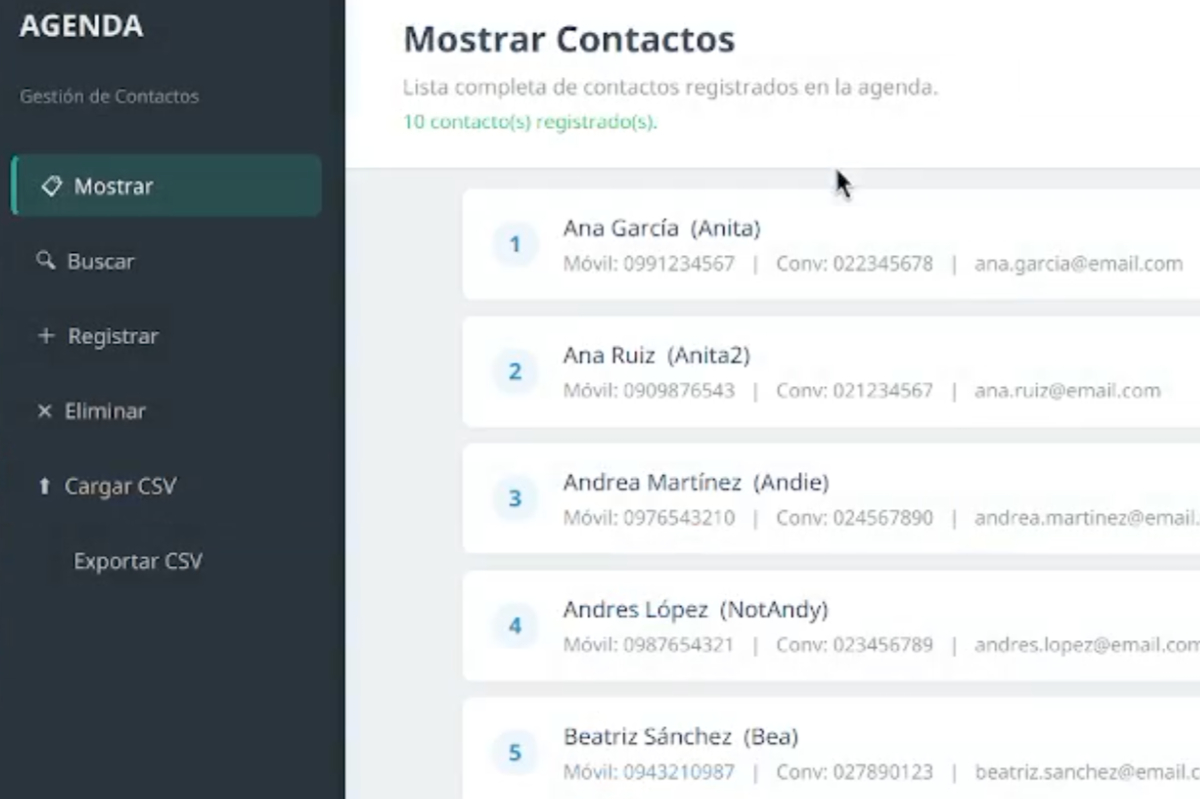
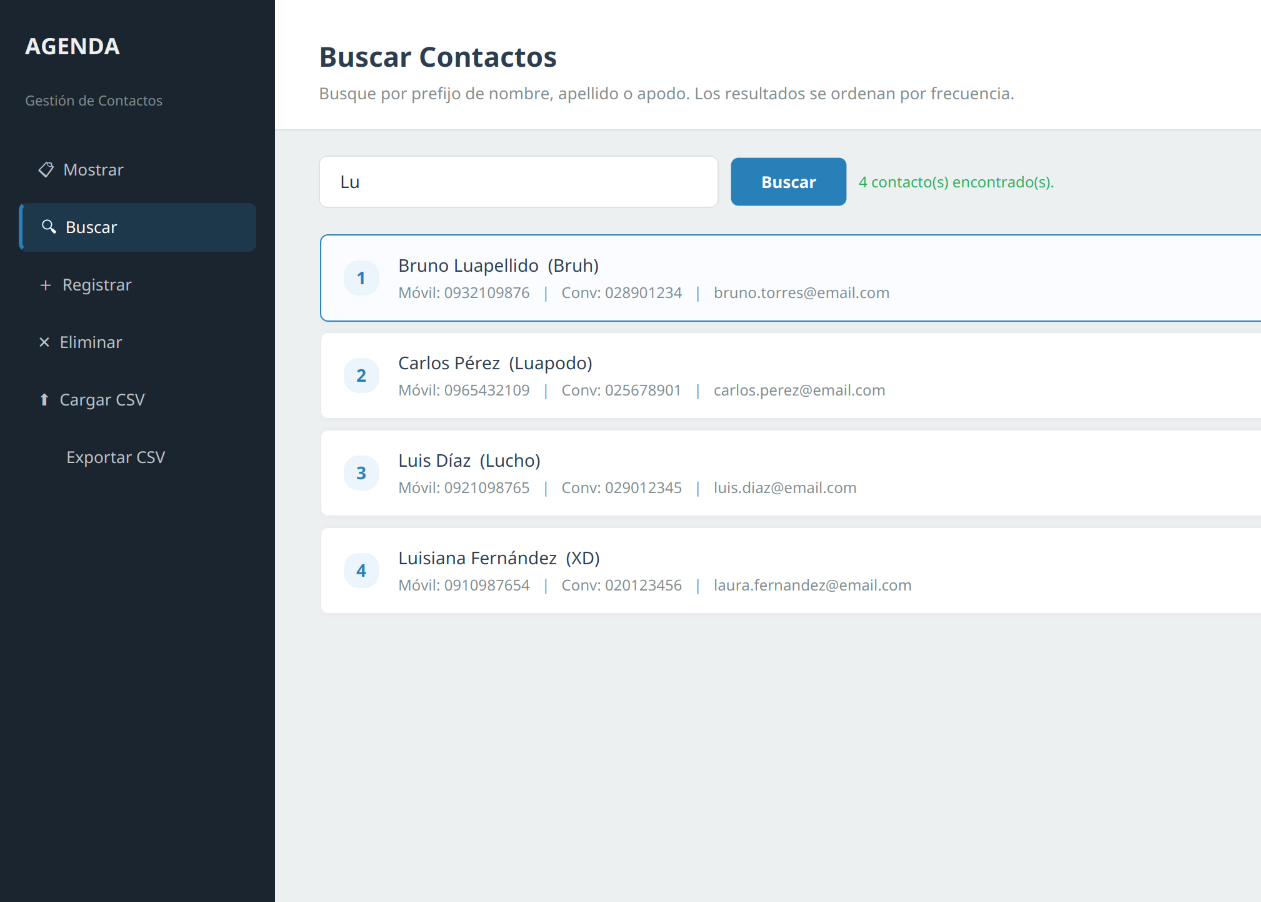
Actualizar proyectos de Lenguajes y Sistemas Distribuidos

diff --git a/index.html b/index.html
@@ -151,7 +151,8 @@
             <li data-filter="*" class="filter-active">Todos</li>
             <li data-filter=".filter-bd">Base de Datos</li>
             <li data-filter=".filter-edd">Estructura de Datos</li>
-            <li data-filter=".filter-next">Próximamente</li>
+            <li data-filter=".filter-ldp">Lenguajes de Programación</li>
+            <li data-filter=".filter-sd">Sistemas Distribuidos</li>
           </ul>
 
           <div class="row gy-4 isotope-container" data-aos="fade-up" data-aos-delay="200">
@@ -159,7 +160,7 @@
             <div class="col-lg-6 col-xl-4 isotope-item filter-bd">
               <article class="portfolio-card">
                 <div class="card-media">
-                  <img src="assets/img/projects/bd1-atrium.png" alt="Placeholder visual de Proyecto BD1 Atrium">
+                  <img src="assets/img/projects/bd1-atrium.png" alt="Pantalla principal de Proyecto BD1 Atrium">
                   <span class="card-category">Base de Datos 1</span>
                 </div>
                 <div class="card-body-custom">
@@ -175,7 +176,7 @@
             <div class="col-lg-6 col-xl-4 isotope-item filter-bd">
               <article class="portfolio-card">
                 <div class="card-media">
-                  <img src="assets/img/projects/bd2-enreach.png" alt="Placeholder visual de Proyecto BD2 Enreach">
+                  <img src="assets/img/projects/bd2-enreach.png" alt="Dashboard de Proyecto BD2 Enreach">
                   <span class="card-category">Base de Datos 2</span>
                 </div>
                 <div class="card-body-custom">
@@ -191,7 +192,7 @@
             <div class="col-lg-6 col-xl-4 isotope-item filter-edd">
               <article class="portfolio-card">
                 <div class="card-media">
-                  <img src="assets/img/projects/edd-blackboard.png" alt="Placeholder visual de EDD Blackboard">
+                  <img src="assets/img/projects/edd-blackboard.png" alt="Generador de reportes de EDD Blackboard">
                   <span class="card-category">Estructura de Datos</span>
                 </div>
                 <div class="card-body-custom">
@@ -207,7 +208,7 @@
             <div class="col-lg-6 col-xl-4 isotope-item filter-edd">
               <article class="portfolio-card">
                 <div class="card-media">
-                  <img src="assets/img/projects/edd-agenda.png" alt="Placeholder visual de EDD Agenda">
+                  <img src="assets/img/projects/edd-agenda.png" alt="Pantalla de búsqueda de contactos de EDD Agenda">
                   <span class="card-category">Estructura de Datos</span>
                 </div>
                 <div class="card-body-custom">
@@ -220,34 +221,34 @@
               </article>
             </div>
 
-            <div class="col-lg-6 col-xl-4 isotope-item filter-next">
+            <div class="col-lg-6 col-xl-4 isotope-item filter-ldp">
               <article class="portfolio-card">
                 <div class="card-media">
-                  <img src="assets/img/projects/lenguajes-placeholder.png" alt="Placeholder visual de Lenguajes de Programación">
+                  <img src="assets/img/projects/huellitas.png" alt="Página principal de Huellitas">
                   <span class="card-category">Lenguajes de Programación</span>
                 </div>
                 <div class="card-body-custom">
-                  <div class="card-meta"><span>Periodo Ordinario I - 2026</span><span>Próximamente</span></div>
-                  <h3>Proyecto de Lenguajes de Programación</h3>
-                  <p>Proyecto académico correspondiente a la materia Lenguajes de Programación. Información, repositorio y recursos visuales pendientes de actualización.</p>
-                  <div class="card-tags"><span>Próximamente</span></div>
-                  <div class="card-actions"><span class="btn-portfolio disabled"><i class="bi bi-hourglass-split"></i>Pendiente</span></div>
+                  <div class="card-meta"><span>Periodo Ordinario I - 2026</span><span>Primer parcial</span></div>
+                  <h3>Proyecto LDP Huellitas</h3>
+                  <p>Plataforma web en Laravel para gestionar adopciones de mascotas, con catálogo, solicitudes, evaluación administrativa, citas, seguimiento de requisitos y formalización del acta de adopción sobre una base MariaDB.</p>
+                  <div class="card-tags"><span>PHP</span><span>Laravel</span><span>MariaDB</span><span>Blade</span><span>Bootstrap 5</span><span>Eloquent</span></div>
+                  <div class="card-actions"><a class="btn-portfolio" href="https://github.com/jdsotomayorjimenez/proyecto-ldp-huellitas" target="_blank" rel="noopener noreferrer"><i class="bi bi-github"></i>Ver repositorio</a></div>
                 </div>
               </article>
             </div>
 
-            <div class="col-lg-6 col-xl-4 isotope-item filter-next">
+            <div class="col-lg-6 col-xl-4 isotope-item filter-sd">
               <article class="portfolio-card">
                 <div class="card-media">
-                  <img src="assets/img/projects/sistemas-distribuidos-placeholder.png" alt="Placeholder visual de Sistemas Distribuidos">
+                  <img src="assets/img/projects/iceframe.png" alt="Panel de reportes de IceFrame Inventory">
                   <span class="card-category">Sistemas Distribuidos</span>
                 </div>
                 <div class="card-body-custom">
-                  <div class="card-meta"><span>Periodo Ordinario I - 2026</span><span>Próximamente</span></div>
-                  <h3>Proyecto de Sistemas Distribuidos</h3>
-                  <p>Proyecto académico correspondiente a la materia Sistemas Distribuidos. Información, repositorio y recursos visuales pendientes de actualización.</p>
-                  <div class="card-tags"><span>Próximamente</span></div>
-                  <div class="card-actions"><span class="btn-portfolio disabled"><i class="bi bi-hourglass-split"></i>Pendiente</span></div>
+                  <div class="card-meta"><span>Periodo Ordinario I - 2026</span><span>Primer parcial</span></div>
+                  <h3>Proyecto SD IceFrame</h3>
+                  <p>Sistema distribuido de inventario para productos audiovisuales, con PostgreSQL en Docker, persistencia por volumen, conexión privada por Tailscale y un servicio independiente de reportes con KPIs, consultas y exportaciones CSV/JSON.</p>
+                  <div class="card-tags"><span>PostgreSQL</span><span>Docker</span><span>Node.js</span><span>Express</span><span>Tailscale</span><span>CSV/JSON</span></div>
+                  <div class="card-actions"><a class="btn-portfolio" href="https://github.com/jdsotomayorjimenez/proyecto-iceframe-db-reportes" target="_blank" rel="noopener noreferrer"><i class="bi bi-github"></i>Ver repositorio</a></div>
                 </div>
               </article>
             </div>
